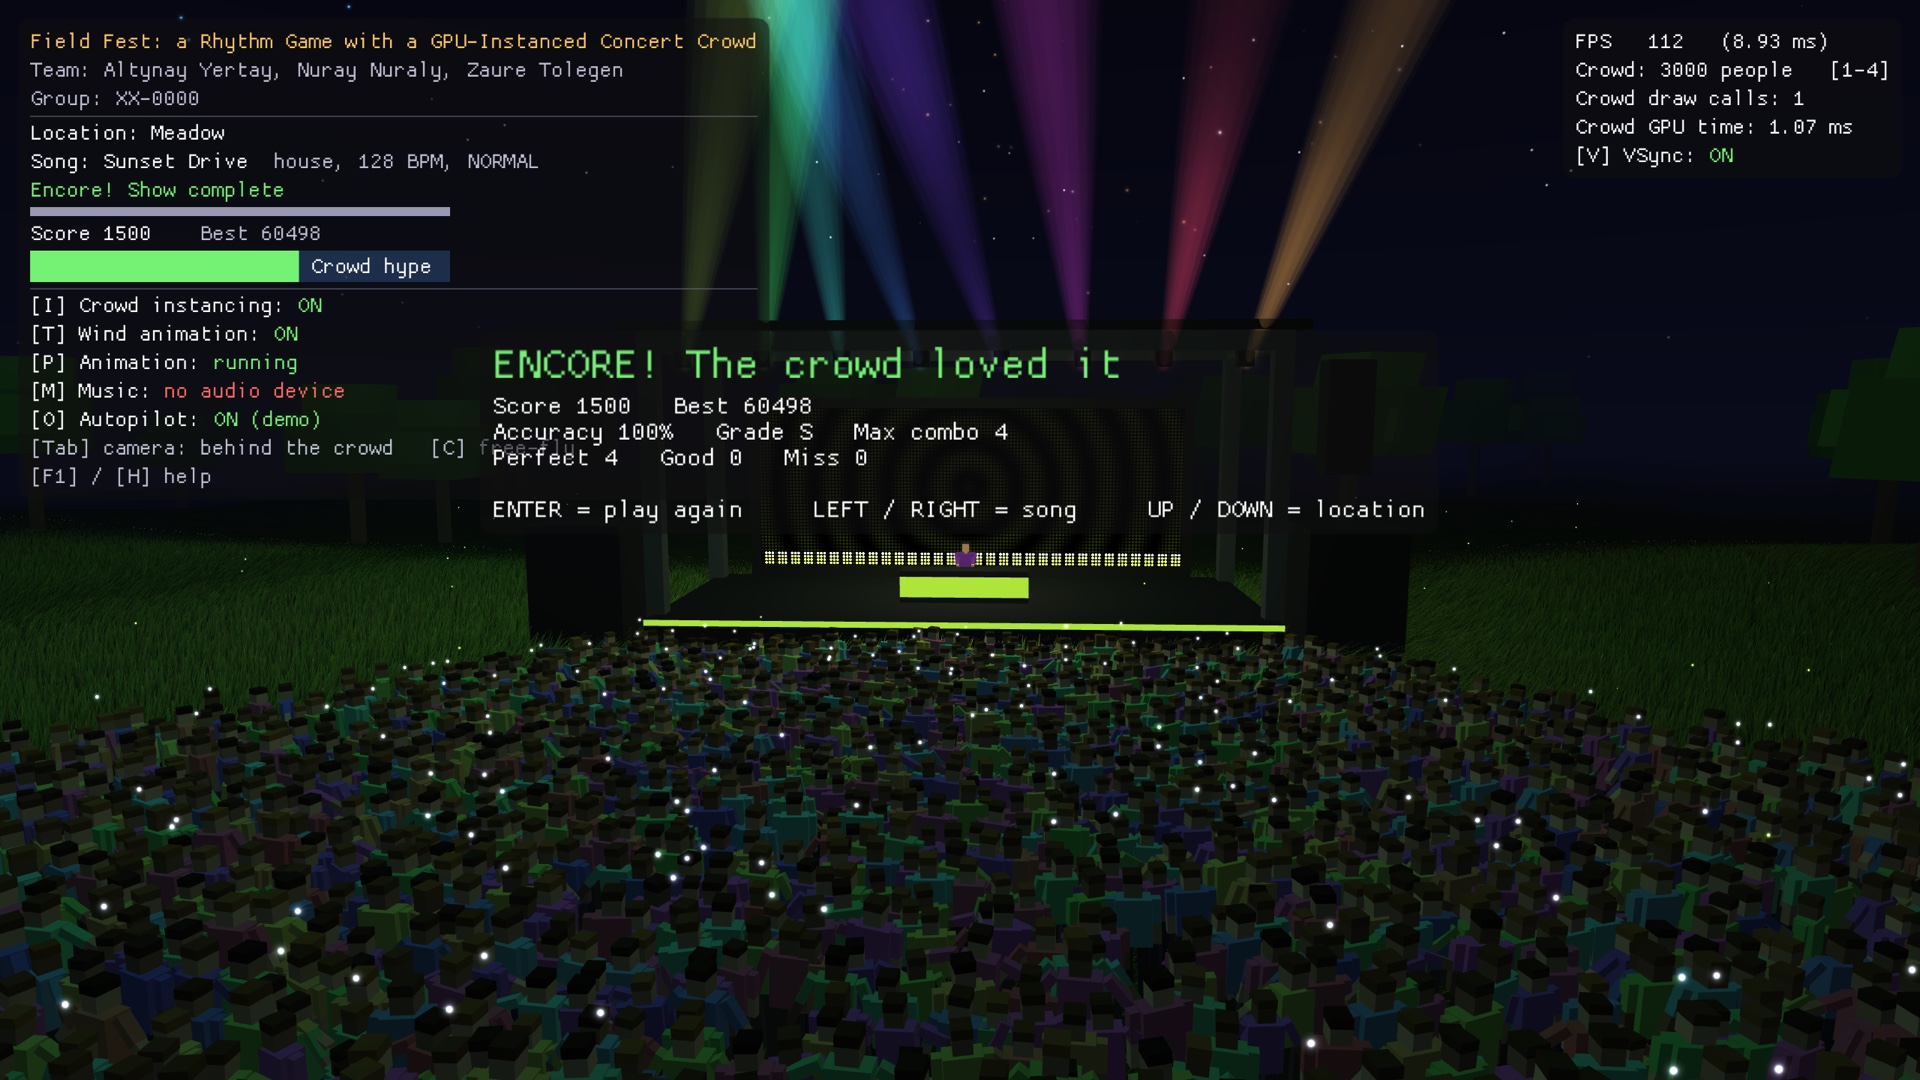
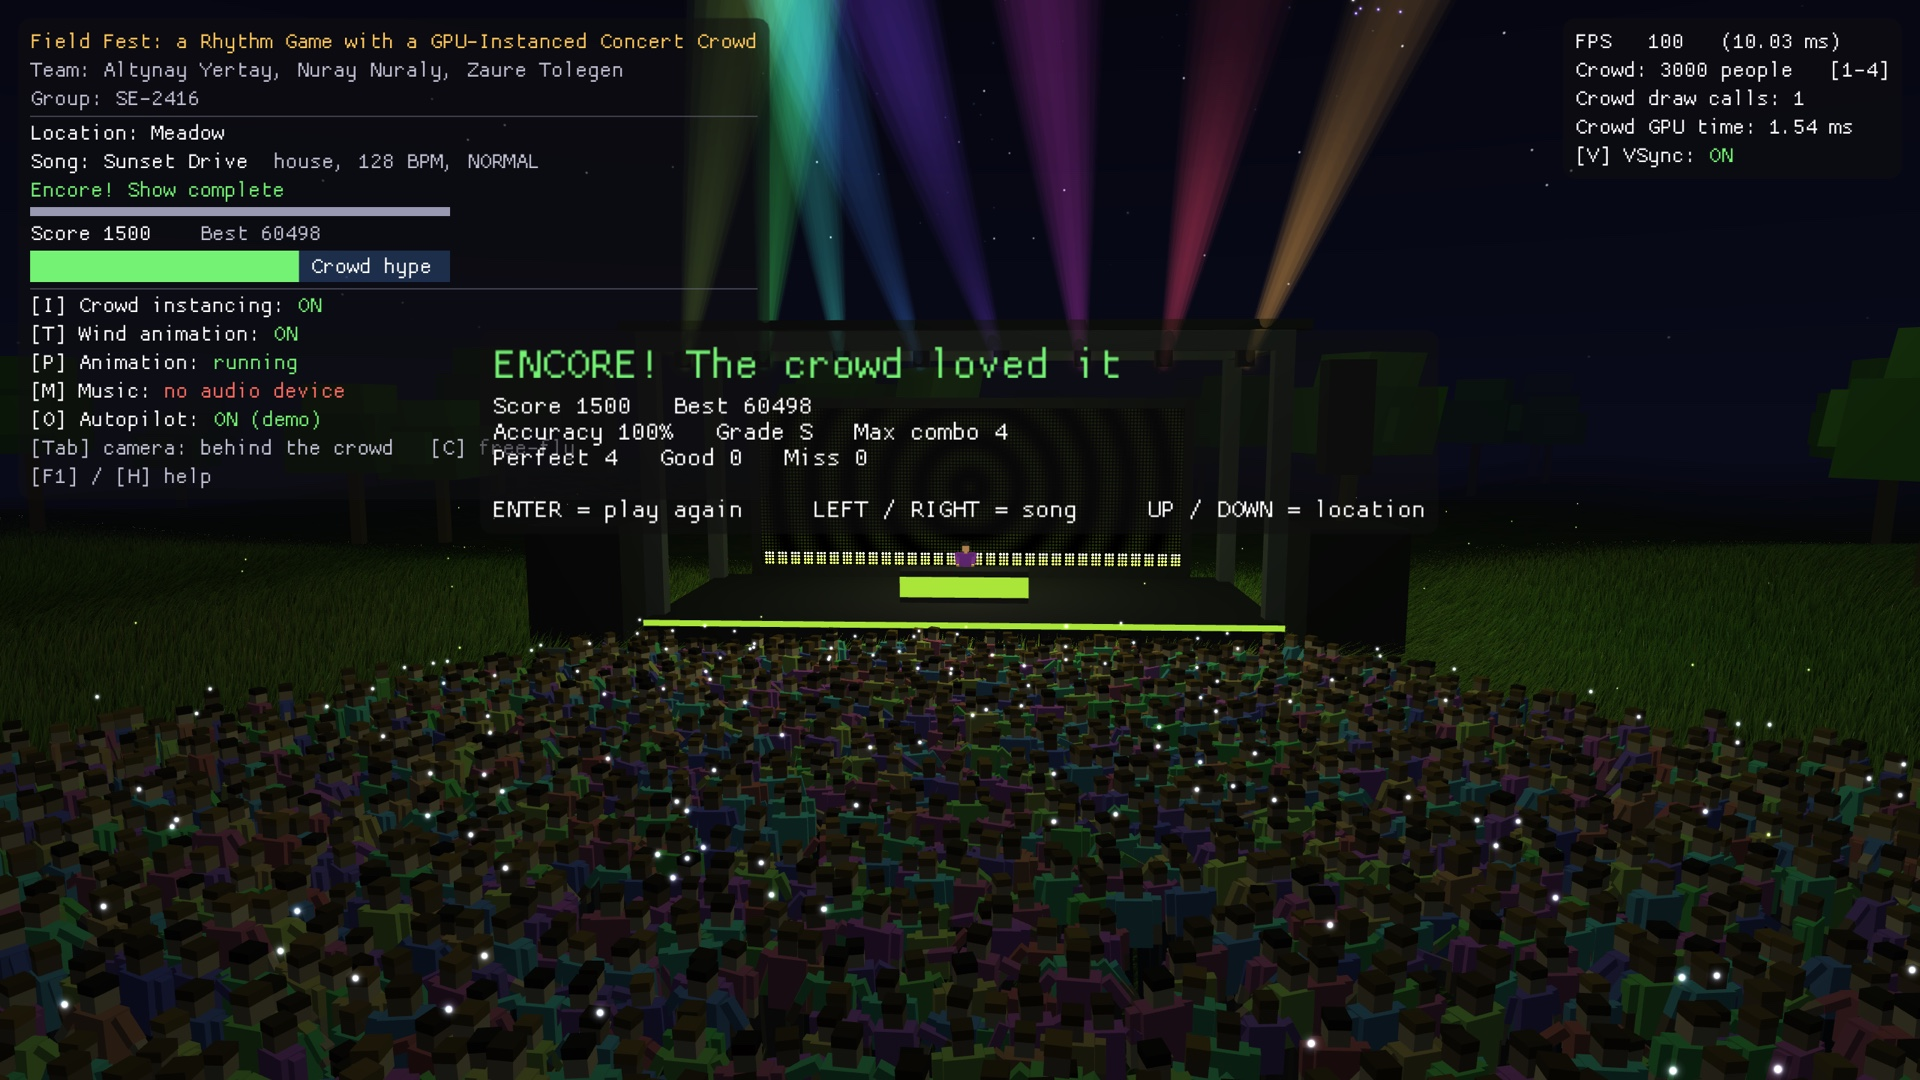
Add group number

Changed region(s): [[0.9062, 0.0306, 0.9688, 0.0611]]

diff --git a/src/Config.h b/src/Config.h
@@ -2,7 +2,7 @@
 namespace cfg {
 inline constexpr const char* kTopic   = "Field Fest: a Rhythm Game with a GPU-Instanced Concert Crowd";
 inline constexpr const char* kTeam    = "Team: Altynay Yertay, Nuray Nuraly, Zaure Tolegen";
-inline constexpr const char* kGroup   = "Group: XX-0000";
+inline constexpr const char* kGroup   = "Group: SE-2416";
 
 inline constexpr float kFieldSize     = 96.0f;
 inline constexpr int   kGrassBlades   = 600000;

diff --git a/README.md b/README.md
@@ -2,7 +2,7 @@
 
 Computer Graphics Fundamentals, Final Project (Astana IT University, 2026–2027)
 
-> **Team:** Altynay Yertay, Nuray Nuraly, Zaure Tolegen · **Group:** XX-0000 · **Topic #:** N
+> **Team:** Altynay Yertay, Nuray Nuraly, Zaure Tolegen · **Group:** SE-2416 · **Topic #:** N
 > *(Edit these here and in `src/Config.h` so they match the topic sheet.)*
 
 A real-time OpenGL 3.3 core rhythm game set at an open-air night concert in one of three
